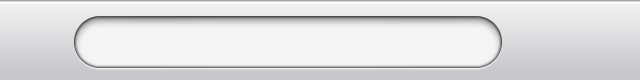
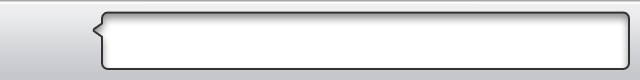
modified add comment bubble - expandable

Changed region(s): [[0.0938, 0.125, 1.0, 0.875]]

diff --git a/Classes/MyView.m b/Classes/MyView.m
@@ -20,26 +20,26 @@
     }
     return self;
 }
-
+    
 - (void) awakeFromNib {
   numberOfLines = 1;
-  UIImage * bgImage = [[UIImage imageNamed:@"bg.png"] stretchableImageWithLeftCapWidth:159 topCapHeight:19];
+  UIImage * bgImage = [[UIImage imageNamed:@"bg.png"] stretchableImageWithLeftCapWidth:200 topCapHeight:22];
   self.image = bgImage;
   [self setContentMode:UIViewContentModeScaleToFill];
   self.clipsToBounds = YES;
   self.userInteractionEnabled = YES;
  
   
-  textViewClipp = [[UIView alloc] initWithFrame:CGRectMake(40, 8, 210, 26)];
+  textViewClipp = [[UIView alloc] initWithFrame:CGRectMake(48, 8, 265, 26)];
   textViewClipp.backgroundColor = [UIColor clearColor];
   textViewClipp.alpha = 1;
   
   [self addSubview:textViewClipp];
   
-  textView = [[HPTextViewInternal alloc] initWithFrame:CGRectMake(0, -4, 210, 36)];
+  textView = [[HPTextViewInternal alloc] initWithFrame:CGRectMake(0, -4, 265, 36)];
   textView.contentInset = UIEdgeInsetsMake(5, 0, 5, 0);
   textView.font = [UIFont systemFontOfSize:16];
-  textView.scrollIndicatorInsets = UIEdgeInsetsMake(11, 0, 13, 0);
+  textView.scrollIndicatorInsets = UIEdgeInsetsMake(3, 0, 5, 0);
   textView.backgroundColor = [UIColor clearColor];
   textView.delegate = self;
   textView.alpha = 1;

diff --git a/Classes/PBCommentListViewController.m b/Classes/PBCommentListViewController.m
@@ -23,26 +23,6 @@
   self.view.backgroundColor = [UIColor lightGrayColor];
 
   myView.scrollView = scrollView;
-  UIImage *image = [UIImage imageNamed:@"btn_StrechableBlueBubble.png"];
-  
-  
-
-  
-  
-  UIButton *postButton = [UIButton buttonWithType:UIButtonTypeCustom];
-  postButton.frame = CGRectMake(0, 0, image.size.width, image.size.height);
-  [postButton setBackgroundImage:image forState:UIControlStateNormal];
-  [postButton setTitleShadowColor:[UIColor colorWithRed:0.0 green:0.0 blue:0.0 alpha:.25] forState:UIControlStateNormal];
-  [postButton setFont:[UIFont boldSystemFontOfSize:16]];
-  [postButton setTitle:NSLocalizedString(@"Post", nil) forState:UIControlStateNormal];
-  postButton.backgroundColor  = [UIColor clearColor];
-  CGSize myOffset;
-  myOffset.width = 0.0f;
-  myOffset.height = -1.0f;
-  postButton.titleShadowOffset = myOffset;
-  postButton.center = CGPointMake(myView.frame.size.width - (postButton.frame.size.width / 2) - 6, 1 + (myView.frame.size.height/2));
-  [myView addSubview:postButton];
-  
 }
 
 
